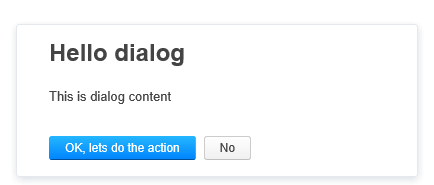
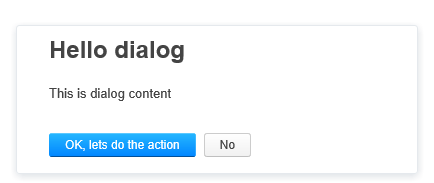
RG-1163 precise design tuning
Former-commit-id: 649a27b5d1bb1f6cb46b13e058396db6dfe93670

diff --git a/components/island/header.js b/components/island/header.js
@@ -3,7 +3,9 @@ import classNames from 'classnames';
 import styles from './island.css';
 
 const SIZE_FONT_DIFF = 16;
-const ADDITIONAL_PADDING_DIFF = 32;
+const ADDITIONAL_PADDING_DIFF = 35;
+export const MAX_SIZE = 40;
+export const MIN_SIZE = 30;
 
 export default class Header extends Component {
   static propTypes = {
@@ -13,6 +15,16 @@ export default class Header extends Component {
     size: PropTypes.number
   };
 
+  getFontSize(size) {
+    const fontDiff = SIZE_FONT_DIFF + (1 - (size - MIN_SIZE) / (MAX_SIZE - MIN_SIZE));
+    return size - fontDiff;
+  }
+
+  getTopPadding(size) {
+    const padding = size - ADDITIONAL_PADDING_DIFF;
+    return padding <= 0 ? 0 : padding;
+  }
+
   render() {
     const {children, className, border, size, ...restProps} = this.props;
     const classes = classNames(styles.header, className, {
@@ -21,10 +33,10 @@ export default class Header extends Component {
 
     const headerStyle = size ? {
       lineHeight: `${size}px`,
-      paddingTop: `${size - ADDITIONAL_PADDING_DIFF}px`
+      paddingTop: this.getTopPadding(size)
     } : null;
 
-    const fontSize = size ? (size - SIZE_FONT_DIFF) : null;
+    const fontSize = size ? this.getFontSize(size) : null;
 
     return (
       <div

diff --git a/components/island/adaptive-island-hoc.js b/components/island/adaptive-island-hoc.js
@@ -1,10 +1,8 @@
 import React, {Component, Children, cloneElement} from 'react';
-import Header from './header';
+import Header, {MAX_SIZE, MIN_SIZE} from './header';
 import Content from './content';
 
-const DEFAULT_SIZE = 40;
-const MIN_SIZE = 30;
-const BORDER_APPEAR_SIZE = 35;
+const BORDER_APPEAR_SIZE = MIN_SIZE + ((MAX_SIZE - MIN_SIZE) / 2);
 const TITLE_RESIZE_SPEED = 0.5;
 
 /* eslint-disable react/prop-types */
@@ -14,11 +12,11 @@ export default function adaptiveIslandHOC(ComposedComponent) {
   return class AdaptiveIsland extends Component {
     state = {
       border: false,
-      size: DEFAULT_SIZE
+      size: MAX_SIZE
     };
 
     onContentScroll = ({scrollTop}) => {
-      let size = DEFAULT_SIZE - (scrollTop * TITLE_RESIZE_SPEED);
+      let size = MAX_SIZE - (scrollTop * TITLE_RESIZE_SPEED);
       size = size < MIN_SIZE ? MIN_SIZE : size;
       const border = size <= BORDER_APPEAR_SIZE;
 

diff --git a/components/island/island.test.js b/components/island/island.test.js
@@ -51,9 +51,8 @@ describe('Island', () => {
 
     it('should change header title font size', () => {
       const size = 24;
-      const fontSize = size - 16; // eslint-disable-line no-magic-numbers
       const titleNode = findDOMNode(renderIntoDocument(<Header size={size}/>)).querySelector(`.${styles.title}`);
-      titleNode.style.fontSize.should.equal(`${fontSize}px`);
+      titleNode.style.fontSize.should.equal('6.4px');
     });
   });
 });
